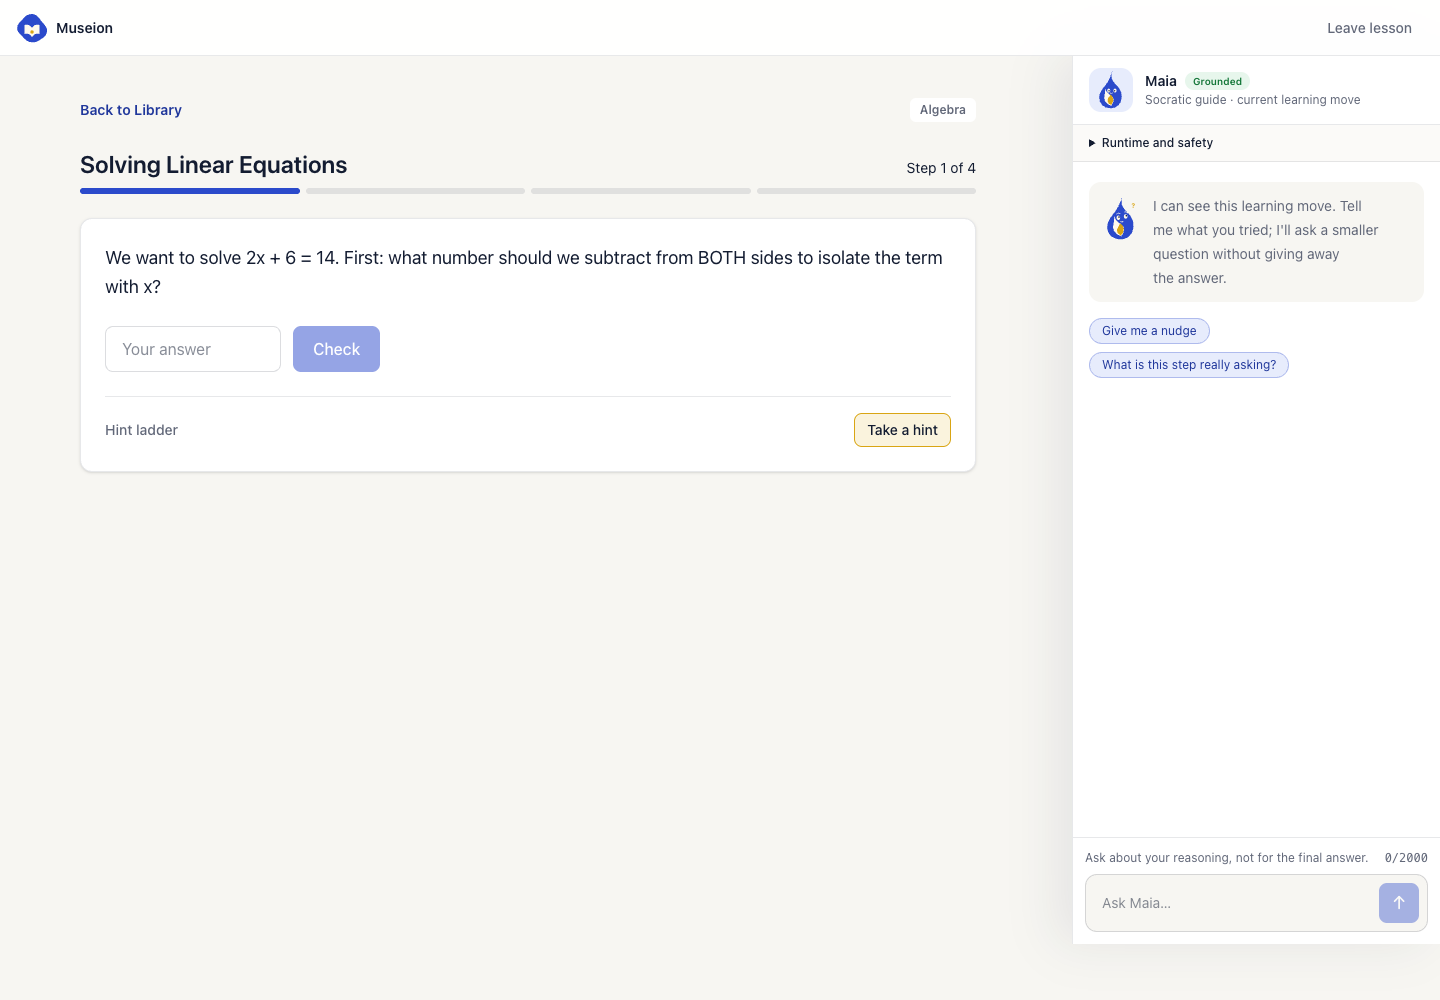
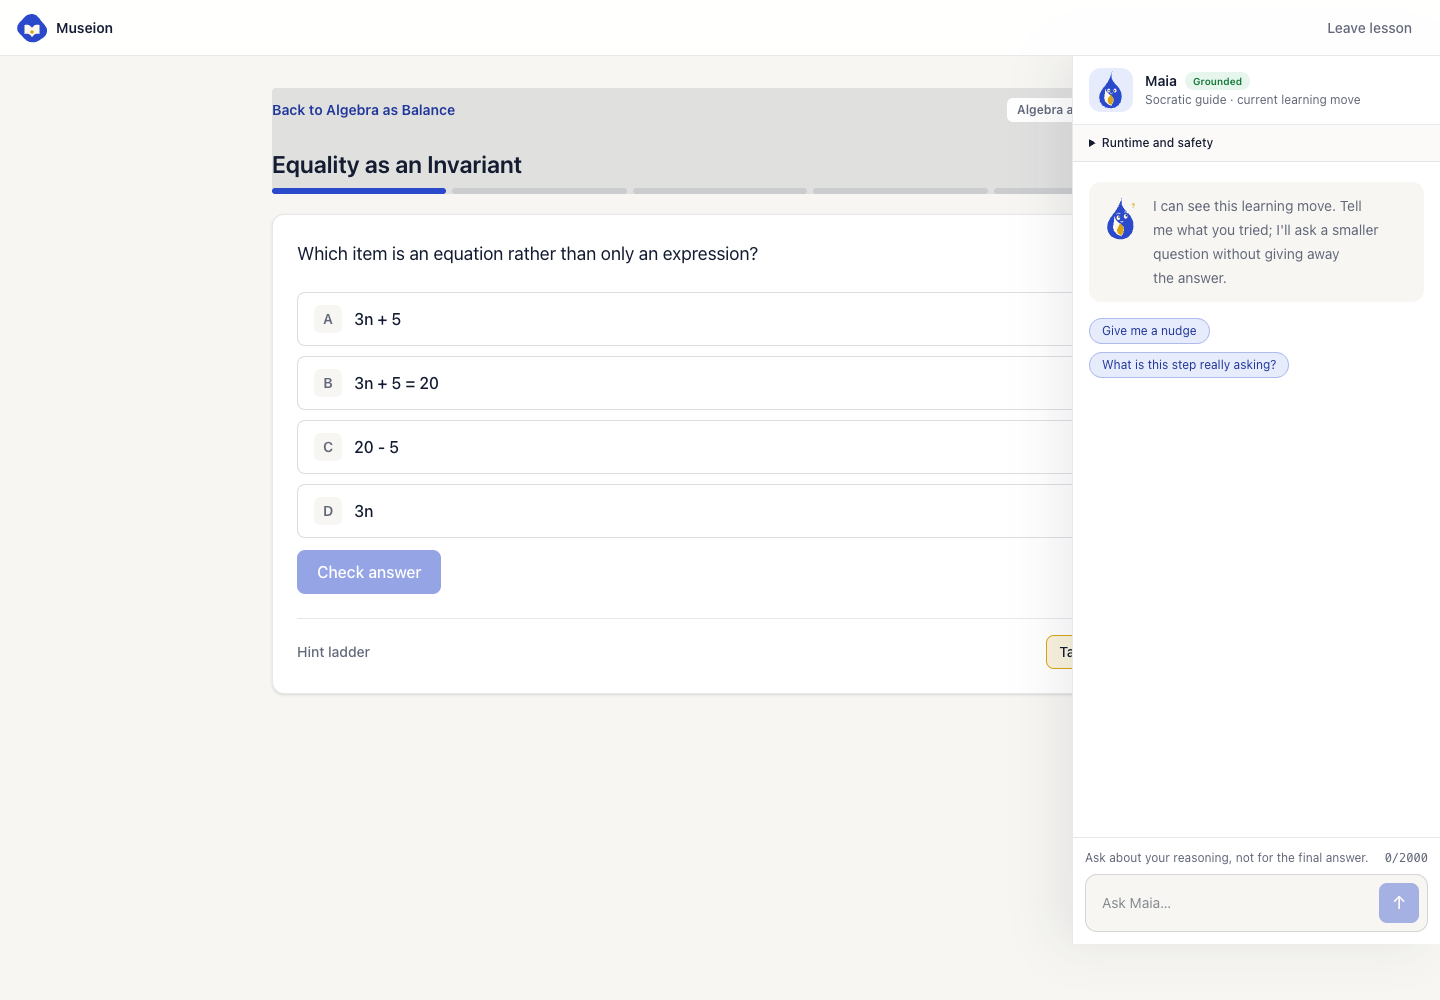
Refresh course-aware lesson screenshot

diff --git a/README.md b/README.md
@@ -74,9 +74,9 @@ Maia is an original Museion companion—a “living idea” manually reconstruct
 |---|---|
 | ![Museion Creator Studio](docs/assets/screenshots/creator-desktop.png) | ![Museion source-grounded course review](docs/assets/screenshots/course-review-desktop.png) |
 
-| Focused lesson | Evidence boundary |
+| Course-aware lesson with Maia | Evidence boundary |
 |---|---|
-| ![Museion focused learning experience](docs/assets/screenshots/learning-desktop.png) | ![Museion learning evidence view](docs/assets/screenshots/evidence-desktop.png) |
+| ![Museion course-aware lesson with progress, navigation, and Maia reasoning rail](docs/assets/screenshots/learning-desktop.png) | ![Museion learning evidence view](docs/assets/screenshots/evidence-desktop.png) |
 
 ## Why
 